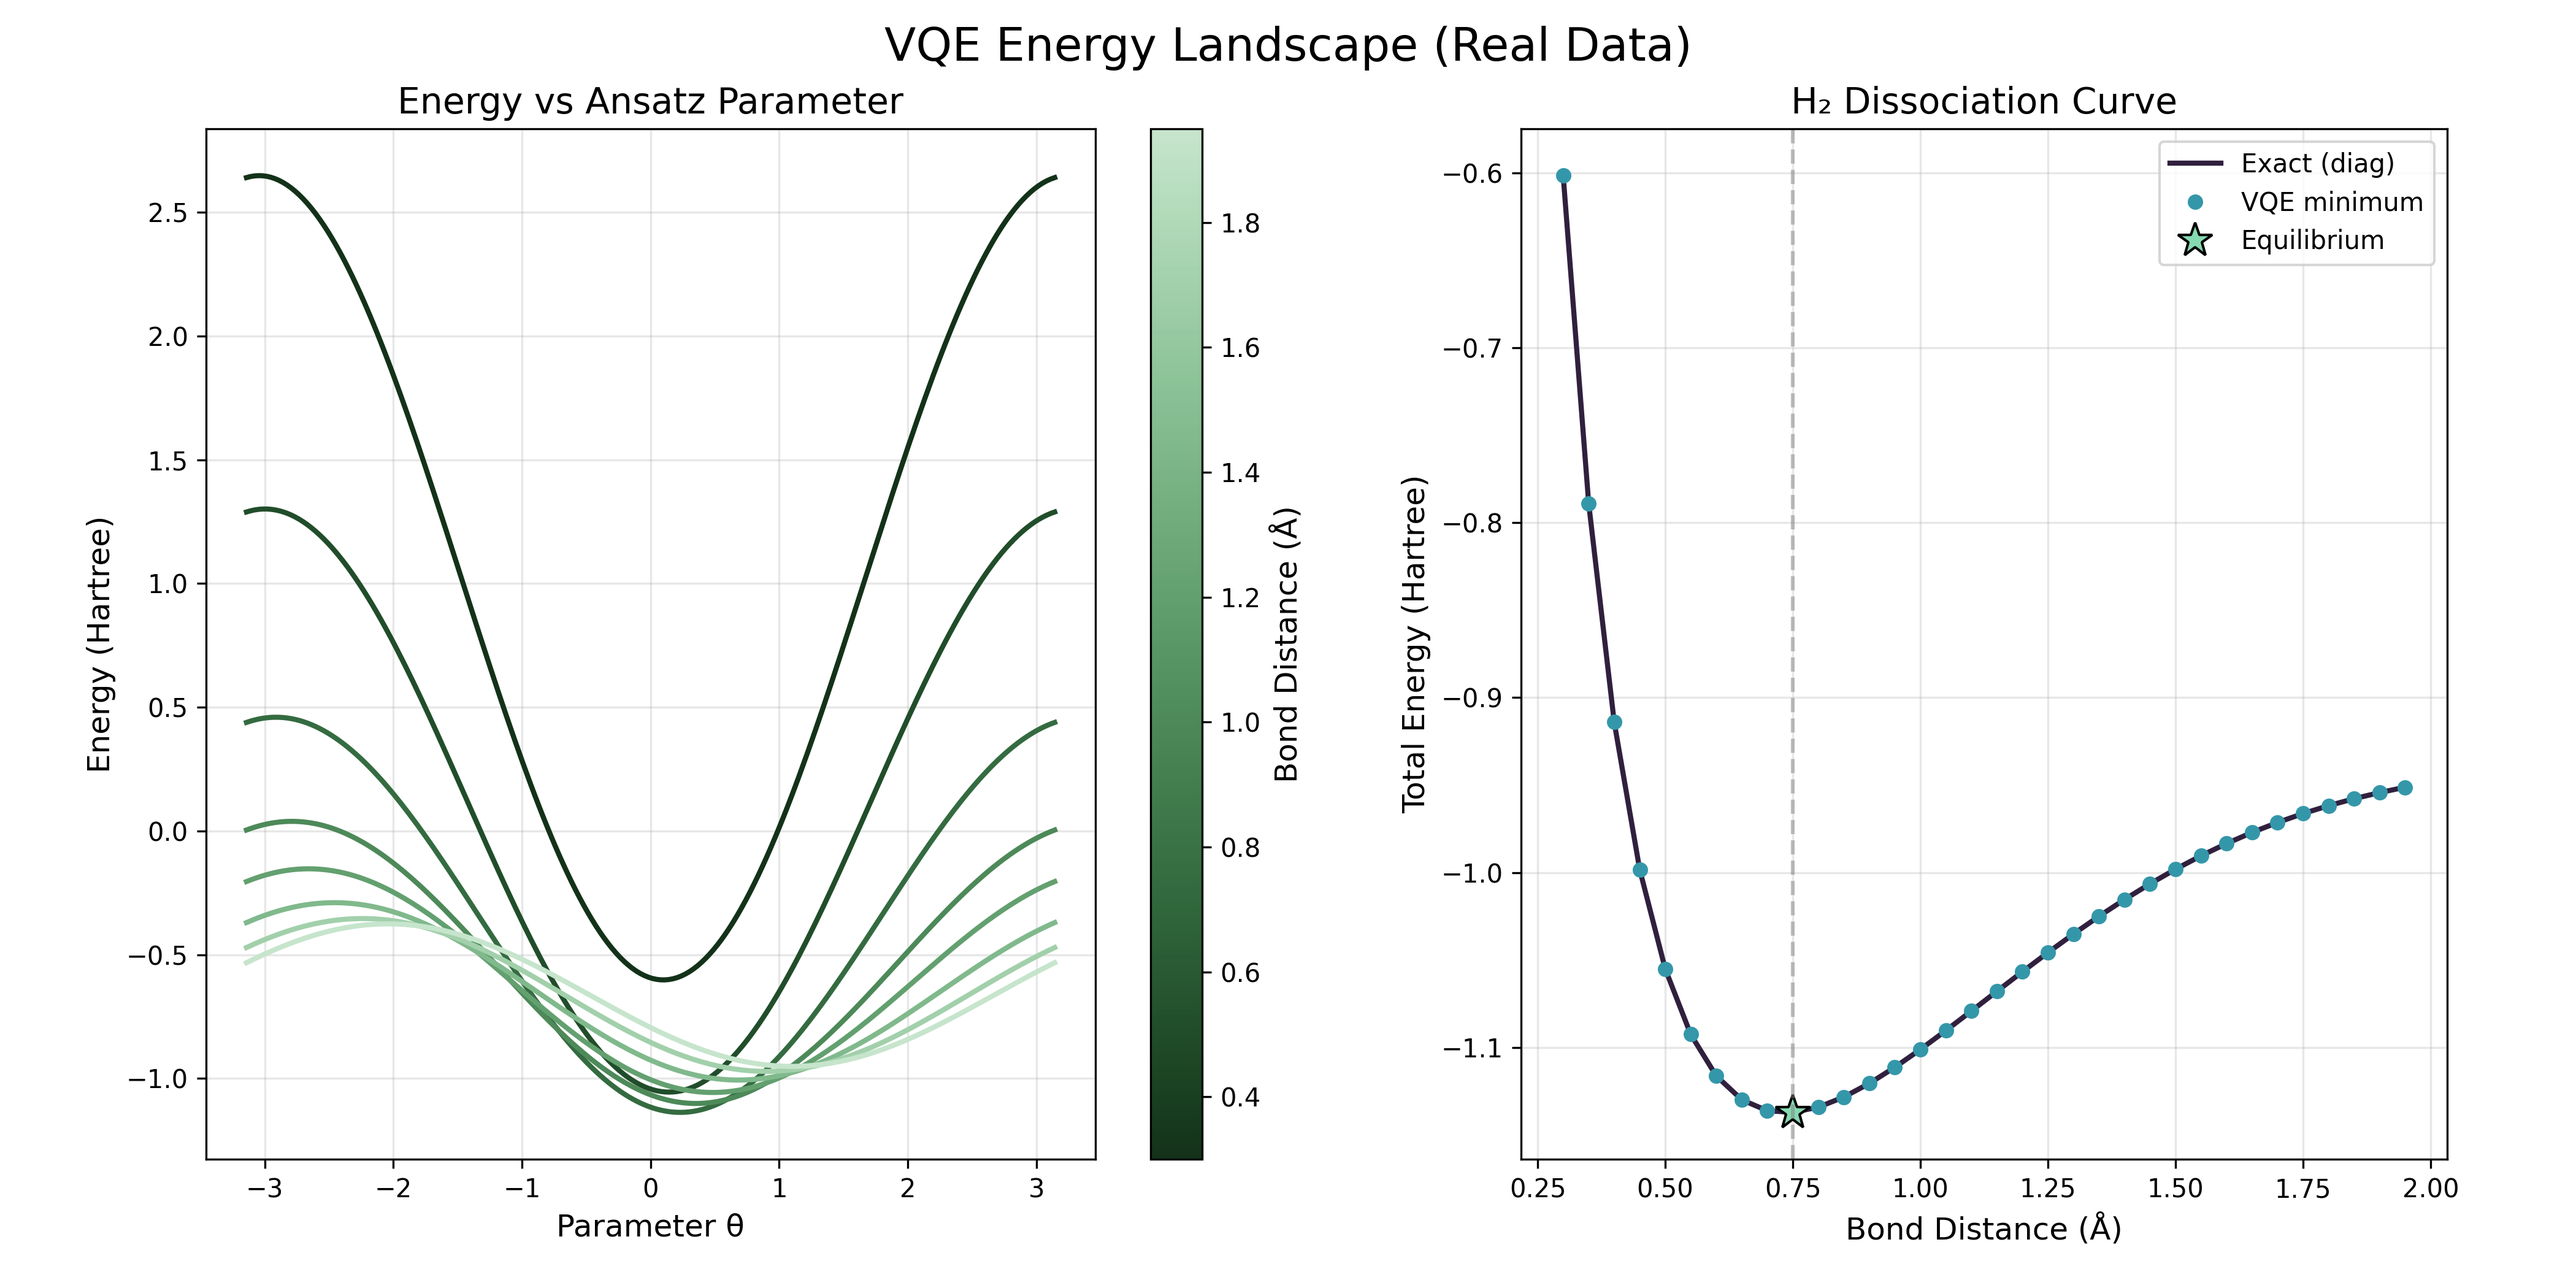
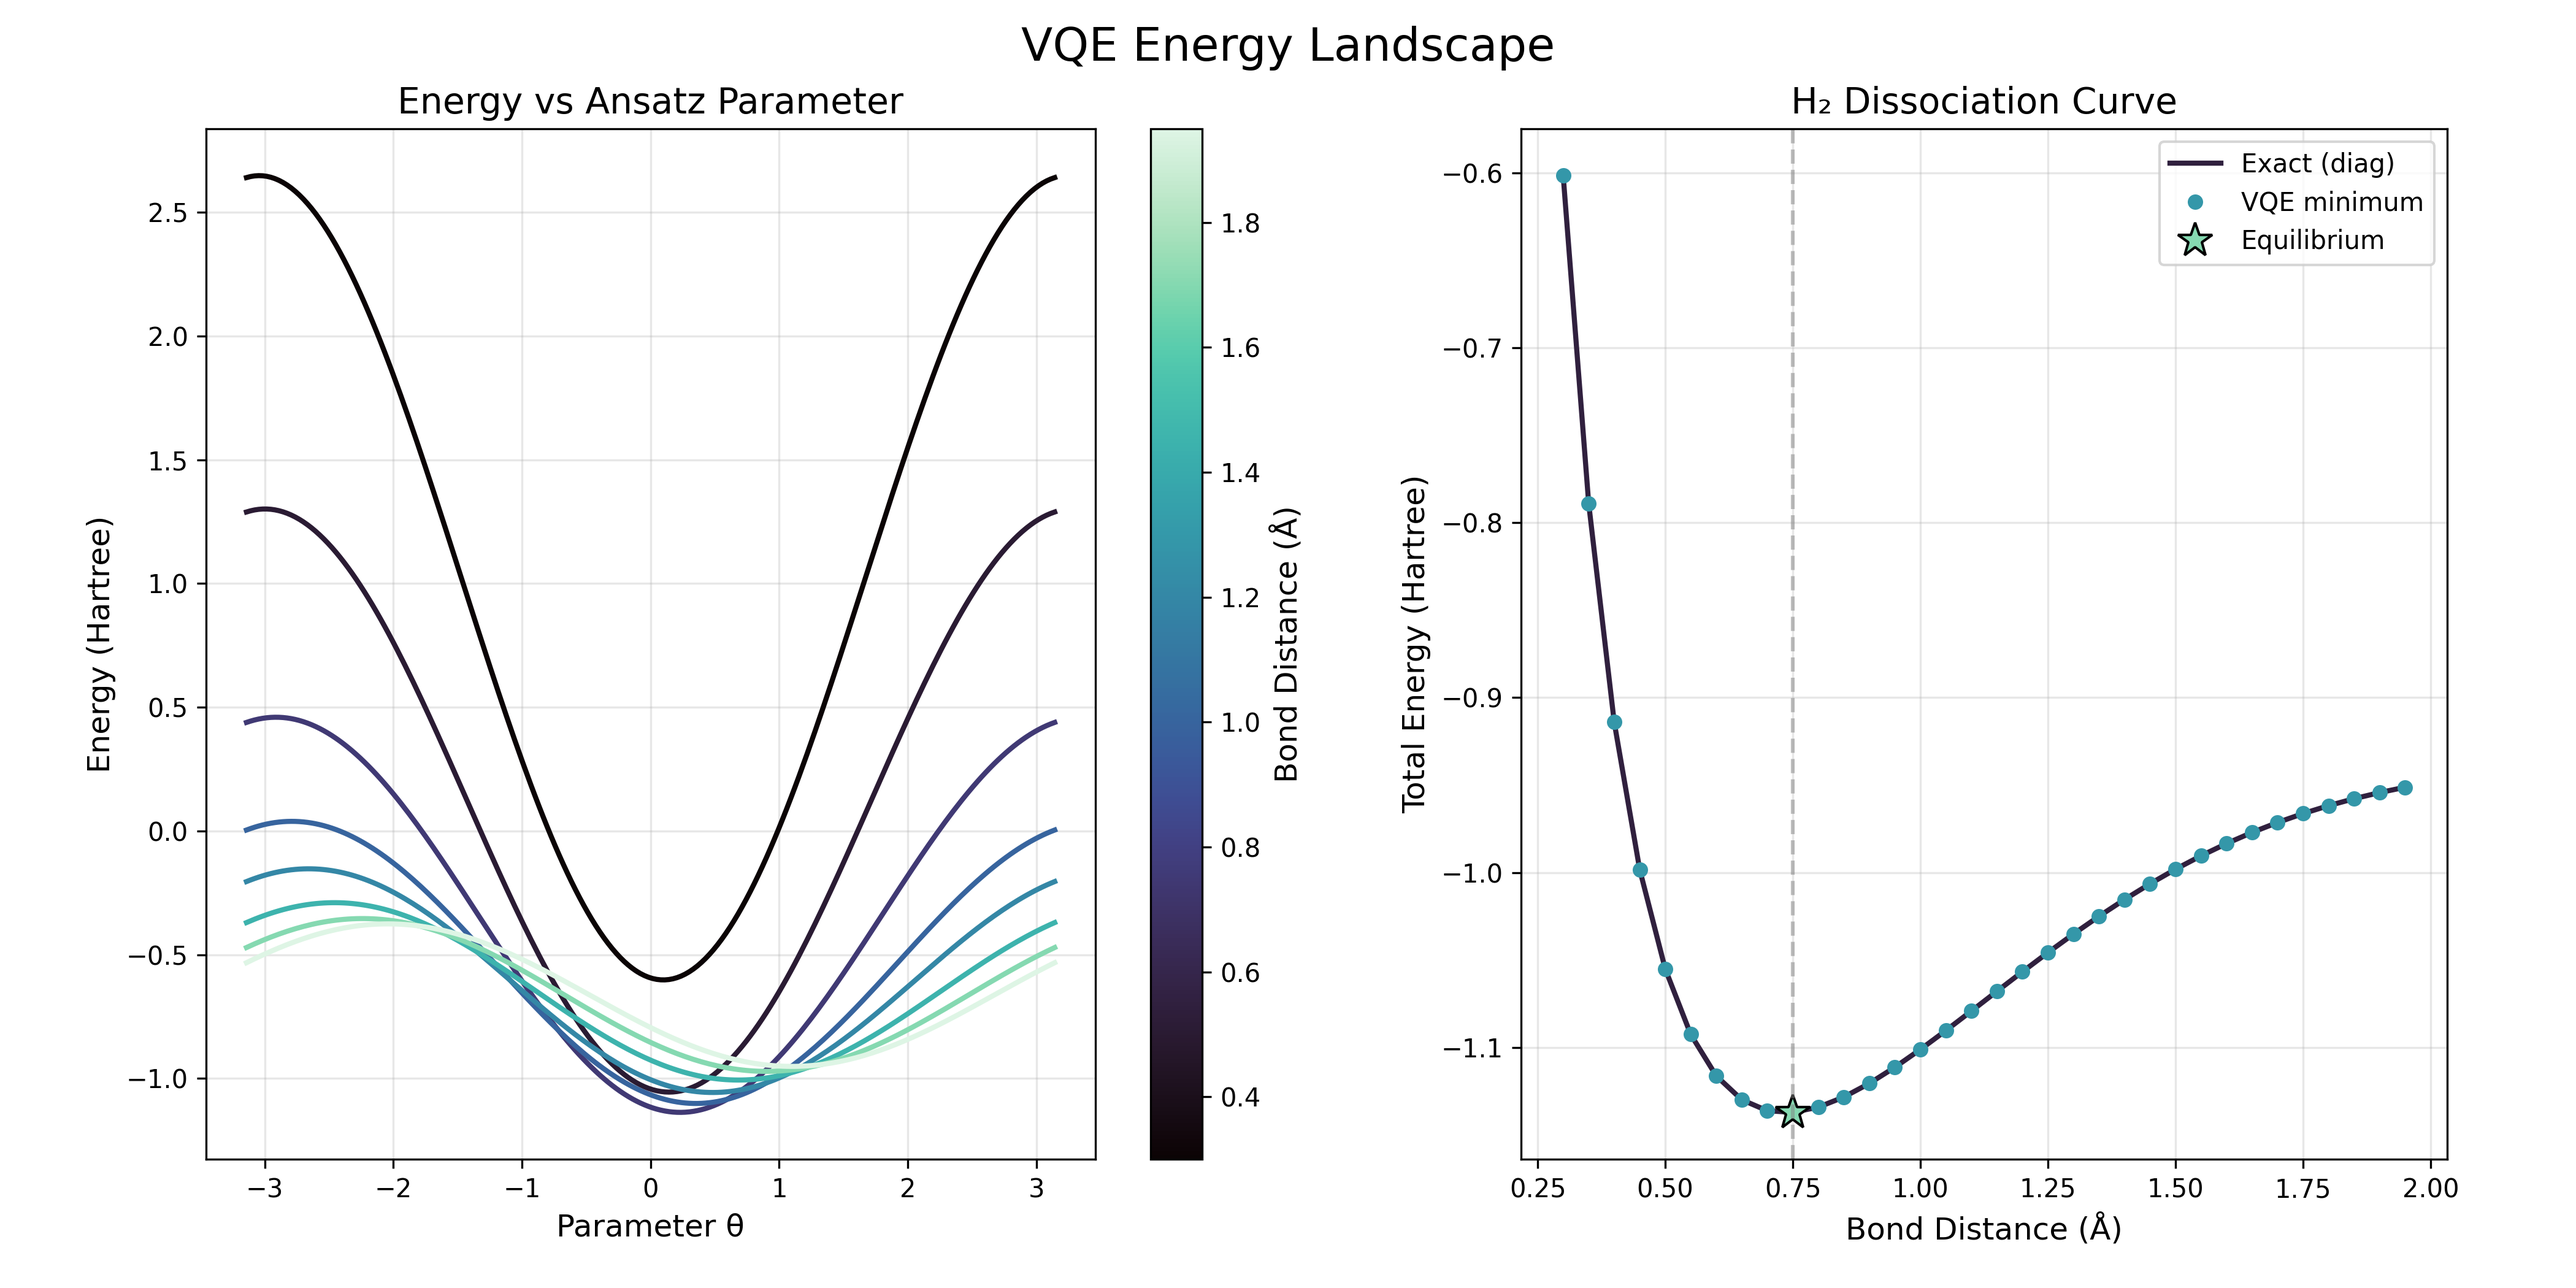
viz: connected GD paths with step dots, smoother PES PowerNorm, 500 convergence iters, energy curves mako theme

diff --git a/visualization/heroVisualization.py b/visualization/heroVisualization.py
@@ -140,7 +140,7 @@ def createHeroVisualization(savePath):
         convGround.append(ground)
         t = np.pi / 2.0
         steps = [_energyAt(h_mat, nuc, ansatz, t)]
-        for _ in range(38):
+        for _ in range(499):
             g = _psrGradient(h_mat, nuc, ansatz, t)
             t = t - lr * g
             t = float(((t + np.pi) % (2.0 * np.pi)) - np.pi)
@@ -162,24 +162,36 @@ def createHeroVisualization(savePath):
     # ── Left: relative PES + per-distance trajectories ────────────────────────
     THETA, DIST = np.meshgrid(thetas, distances)
     # PowerNorm(gamma<1) expands the dark/near-zero region so the well bottom
-    # shows color gradation instead of a uniformly black valley.
-    pesNorm = mcolors.PowerNorm(gamma=0.40, vmin=0.0, vmax=float(relGrid.max()))
-    cf = axLeft.contourf(THETA, DIST, relGrid, levels=30, cmap=pesCmap, norm=pesNorm)
-    axLeft.contour(THETA, DIST, relGrid, levels=30, colors="k", alpha=0.08, linewidths=0.4)
-    cbar = fig.colorbar(cf, ax=axLeft, fraction=0.035, pad=0.02)
+    # shows gradation. vmax capped at 92nd-percentile to prevent extreme
+    # compressed-geometry values from crushing the midrange into a flat band.
+    pesVmax = float(np.percentile(relGrid, 92))
+    pesNorm = mcolors.PowerNorm(gamma=0.55, vmin=0.0, vmax=pesVmax)
+    cf = axLeft.contourf(THETA, DIST, relGrid, levels=40, cmap=pesCmap, norm=pesNorm)
+    axLeft.contour(THETA, DIST, relGrid, levels=40, colors="k", alpha=0.06, linewidths=0.3)
+    cbar = fig.colorbar(cf, ax=axLeft, fraction=0.035, pad=0.02, extend="max")
     cbar.set_label("E \u2212 E\u2090\u2091\u2099(R)  (Hartree)", fontsize=11)
 
     for tPath, R in trajData:
-        # White piecewise: each GD step is a discrete segment with a 25% gap.
+        # Connected piecewise segments: each GD step is a full-length segment
+        # so the iterative path is visible as a chain of connected steps.
         for i in range(len(tPath) - 1):
             t0, t1 = tPath[i], tPath[i + 1]
             if abs(t1 - t0) > np.pi:  # skip wrap-around jump
                 continue
-            tEnd = t0 + 0.75 * (t1 - t0)
             axLeft.plot(
-                [t0, tEnd], [R, R],
+                [t0, t1], [R, R],
                 color="white", linewidth=2.0, alpha=0.90,
-                zorder=3, solid_capstyle="butt",
+                zorder=3, solid_capstyle="round",
+            )
+        # Small dots at each step boundary to mark discrete iterations
+        dotThetas = [
+            tPath[i + 1] for i in range(len(tPath) - 1)
+            if abs(tPath[i + 1] - tPath[i]) <= np.pi
+        ]
+        if dotThetas:
+            axLeft.scatter(
+                dotThetas, [R] * len(dotThetas),
+                color="white", s=7, zorder=4, alpha=0.70, linewidths=0,
             )
         # White arrow at midpoint to show descent direction
         midIdx = max(0, len(tPath) // 2 - 1)

diff --git a/visualization/vqe_energy_curves.py b/visualization/vqe_energy_curves.py
@@ -58,14 +58,7 @@ def create_vqe_energy_curves_visualization(save_path):
     thetas = np.linspace(-np.pi, np.pi, 200)
 
     # Color palettes
-    dist_cmap = sns.cubehelix_palette(
-        start=2,
-        rot=0,
-        dark=0.15,
-        light=0.85,
-        reverse=True,
-        as_cmap=True,
-    )
+    dist_cmap = sns.color_palette("mako", as_cmap=True)
     iter_cmap = sns.color_palette("mako", as_cmap=True)
 
     # Precompute Hamiltonians and energies
@@ -92,7 +85,7 @@ def create_vqe_energy_curves_visualization(save_path):
         figsize=(14, 7),
         gridspec_kw={"width_ratios": [1.2, 1]},
     )
-    fig.suptitle("VQE Energy Landscape (Real Data)", fontsize=18)
+    fig.suptitle("VQE Energy Landscape", fontsize=18)
 
     # Left panel: energy vs theta for selected distances
     sample_indices = np.linspace(0, len(distances) - 1, 8, dtype=int)
